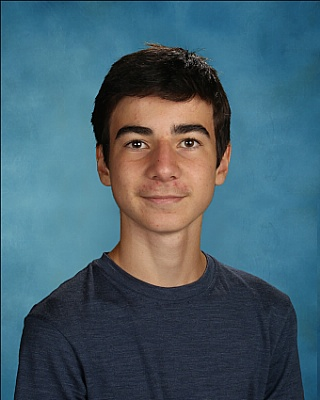
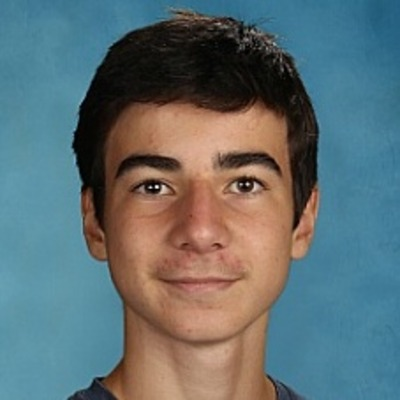
added: more images, completed authors and procedure pages

diff --git a/procedure.html b/procedure.html
@@ -79,40 +79,49 @@
                         <tr class="align-middle">
                             <!-- scope="row" specifies the header cell is the header for a row -->
                             <th scope="row" class="table-secondary"><h3>1</h3></th>
-                            <td><h3 class="howTo">Start Python Flask Server</h3></td>
-                            <td class="text-center"><img src="img/python-logo.png" alt="Python Logo"></td>
+                            <td><h3 class="howTo">Planaria are cut in half crosswise on an ice plate,
+                                 put into their different water flow rate groups, and are measured.</h3></td>
+                            <td class="text-center"><img src="img/planaria-cut.png" class="black-border" width="200" alt="Planaria Cut"></td>
                         </tr>
 
                         <!-- row 2 -->
                         <tr class="align-middle">
                             <!-- scope="row" specifies the header cell is the header for a row -->
                             <th scope="row" class="table-secondary"><h3>2</h3></th>
-                            <td><h3 class="howTo">Power circuit on. SR-04/05 transmits data to Nano IoT</h3></td>
-                            <td class="text-center"><img src="img/range-finder-tp.png" alt="SR-04/05 range finder"></td>
+                            <td><h3 class="howTo">Water pumps are turned on from 7:35 AM to 11:40 AM for the next 3 days, with 2 planaria in each water flow rate group.</h3></td>
+                            <td class="text-center"><img src="img/water-pump-setup.png" class="black-border" width="200" alt="Water Pump Setup"></td>
                         </tr>
 
                         <!-- row 3 -->
                         <tr class="align-middle">
                             <!-- scope="row" specifies the header cell is the header for a row -->
                             <th scope="row" class="table-secondary"><h3>3</h3></th>
-                            <td><h3 class="howTo">Nano IoT connects to PC via WiFi and sends data to arduino program</h3></td>
-                            <td class="text-center"><img src="img/nano33-iot3.png" alt="Nano33 IoT"></td>
+                            <td><h3 class="howTo">Planaria are measured at the end of each pump cycle using a ruler in mm.</h3></td>
+                            <td class="text-center"><img src="img/planaria-measurement.png" class="black-border" width="200" alt="Planaria Measurement"></td>
                         </tr>
 
                         <!-- row 4 -->
                         <tr class="align-middle">
                             <!-- scope="row" specifies the header cell is the header for a row -->
                             <th scope="row" class="table-secondary"><h3>4</h3></th>
-                            <td><h3 class="howTo">Arduino and Flask server communicate via HTTP request protocol</h3></td>
-                            <td class="text-center"><img src="img/arduino-logo.png" alt="Arduino Logo"></td>
+                            <td><h3 class="howTo">After the planaria are put through the water pumps for 3 days, they are put back into the main planaria tank.</h3></td>
+                            <td class="text-center"><img src="img/planaria-tank.png" class="black-border" width="200" alt="Planaria Tank"></td>
                         </tr>
 
                         <!-- row 5 -->
                         <tr class="align-middle">
                             <!-- scope="row" specifies the header cell is the header for a row -->
                             <th scope="row" class="table-secondary"><h3>5</h3></th>
-                            <td><h3 class="howTo">Flask connects to the Firebase and sends data for storage</h3></td>
-                            <td class="text-center"><img src="img/firebase-logo.png" alt="Firebase Logo"></td>
+                            <td><h3 class="howTo">The planaria in the main tank are fed with 0.25 mL of beef liver.</h3></td>
+                            <td class="text-center"><img src="img/beef-liver.png" class="black-border" width="200" alt="Beef Liver"></td>
+                        </tr>
+
+                        <!-- row 6 -->
+                        <tr class="align-middle">
+                            <!-- scope="row" specifies the header cell is the header for a row -->
+                            <th scope="row" class="table-secondary"><h3>6</h3></th>
+                            <td><h3 class="howTo">Data for the week is recorded in a notebook and the process is repeated the next week for the next trial.</h3></td>
+                            <td class="text-center"><img src="img/data-table.png" class="black-border" width="200" alt="Data Table"></td>
                         </tr>
                     </tbody>
 

diff --git a/authors.html b/authors.html
@@ -66,24 +66,22 @@
                  <div class="row row-cols-1 row-cols-md-2 g-4">
                     <div class="cols">
                         <div class="card about">
-                            <img src="img/tudor1.jpg" alt="Name 1" class="card-img-top">
+                            <img src="img/tudor.jpg" alt="Tudor Barcan" class="card-img-top">
                             <div class="card-body">
-                                <h4 class="card-title">Student Name</h4>
-                                <h5>Class: BME</h5>
-                                <p class="card-text">Describe (in detail) the contributuions 
-                                that this team member made to the project.</p>
+                                <h4 class="card-title">Tudor Barcan</h4>
+                                <hr>
+                                <p class="card-text">He designed, tested, built, and carried out the research for the project.</p>
                             </div>
                         </div>
                     </div>
 
                     <div class="cols">
                         <div class="card about">
-                            <img src="img/lafnitz.jpg" alt="Name 2" class="card-img-top">
+                            <img src="img/lafnitz.jpg" alt="Reagan Lafnitzegger" class="card-img-top">
                             <div class="card-body">
                                 <h4 class="card-title">Reagan Lafnitzegger</h4>
-                                <h5>Class: SE</h5>
-                                <p class="card-text">Describe (in detail) the contributuions 
-                                that this team member made to the project.</p>
+                                <hr>
+                                <p class="card-text">She gave advice and support throughout the project.</p>
                             </div>
                         </div>
                     </div>

diff --git a/styles.css b/styles.css
@@ -14,22 +14,10 @@
 }
 
 .body{
-    background-color: #2e5886;;
+    background-color: rgb(46, 88, 134);;
     background-image: url(img/water-bg.jpg);
     background-size: cover;
     backdrop-filter: blur(5px);
-}
-
-* { 
-    font-family: 'Gadugi' !important;
-}
-
-#growth-img {
-    margin-top: 50px;
-}
-
-p, li {
-    font-size: 20px;
 }
 
 .logo {
@@ -42,7 +30,7 @@ p, li {
 }
 
 .footer{                
-    background-color: #2e5886;
+    background-color: rgb(46, 88, 134, 0.6);
 }
 
 .icon-white{            /* Arrow icon at bottom of page */
@@ -50,7 +38,7 @@ p, li {
 }
 
 .nav-background-color{   /* navbar background color */
-    background-color: #2e5886;
+    background-color: rgb(46, 88, 134, 0.6);
 }
 
 .nav-menu-item{               /* navbar link text properties */
@@ -60,7 +48,7 @@ p, li {
 }
 
 .overview{
-    background-color: #dbe3e7;
+    background-color: rgba(219, 227, 231, 0.6);
 }
 
 .overview-left-padding{
@@ -72,12 +60,12 @@ p, li {
 }
 
 .procedure{
-    background-color: #dbe3e7;
+    background-color: rgba(219, 227, 231, 0.6);
     padding: 1px;
 }
 
 .showcase {
-    background-color: #9eb4cd;
+    background-color: rgba(158, 180, 205, 0.8);
 }
 
 .horizontal-line {
@@ -95,6 +83,10 @@ p, li {
 }
 
 /* ----------------- ID CSS ----------------- */
+
+#growth-img {
+    margin-top: 50px;
+}
 
 /* -----------------Underline Animation CSS -----------------*/
 #chart-wrapper{
@@ -130,4 +122,14 @@ p, li {
 .hover-underline-animation:hover:after {
     transform: scaleX(1);
     /*transform-origin: bottom left;*/
+}
+
+/* ----------------- Element CSS ----------------- */
+
+* { 
+    font-family: 'Gadugi' !important;
+}
+
+p, li {
+    font-size: 20px;
 }
